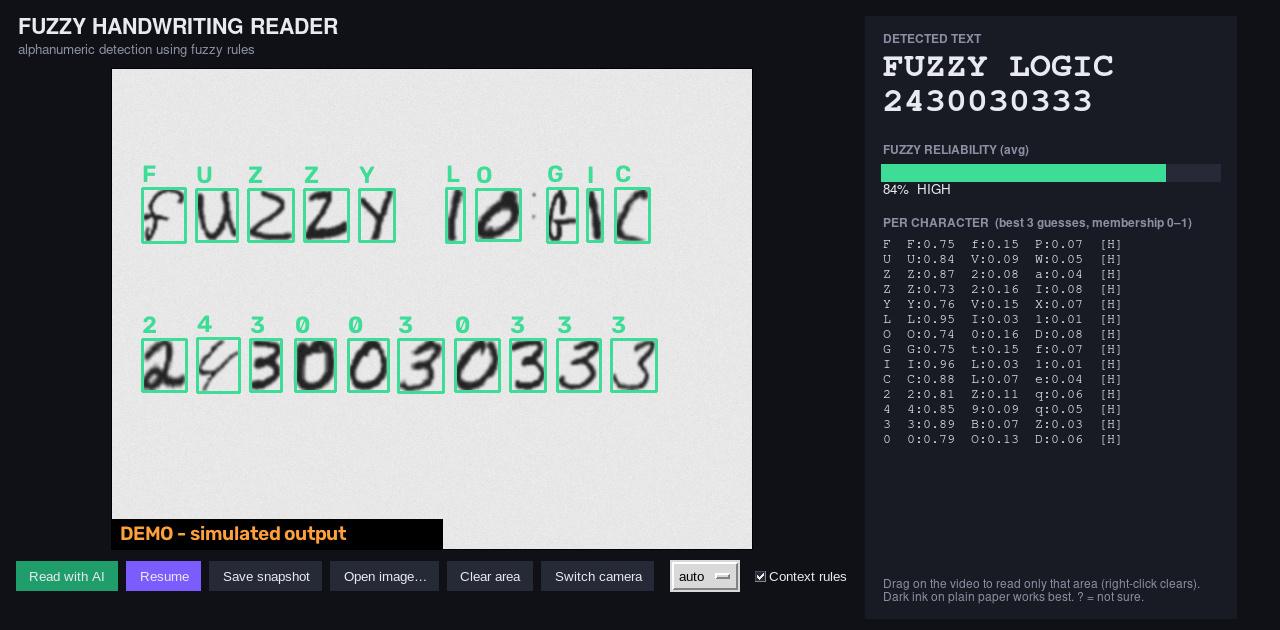
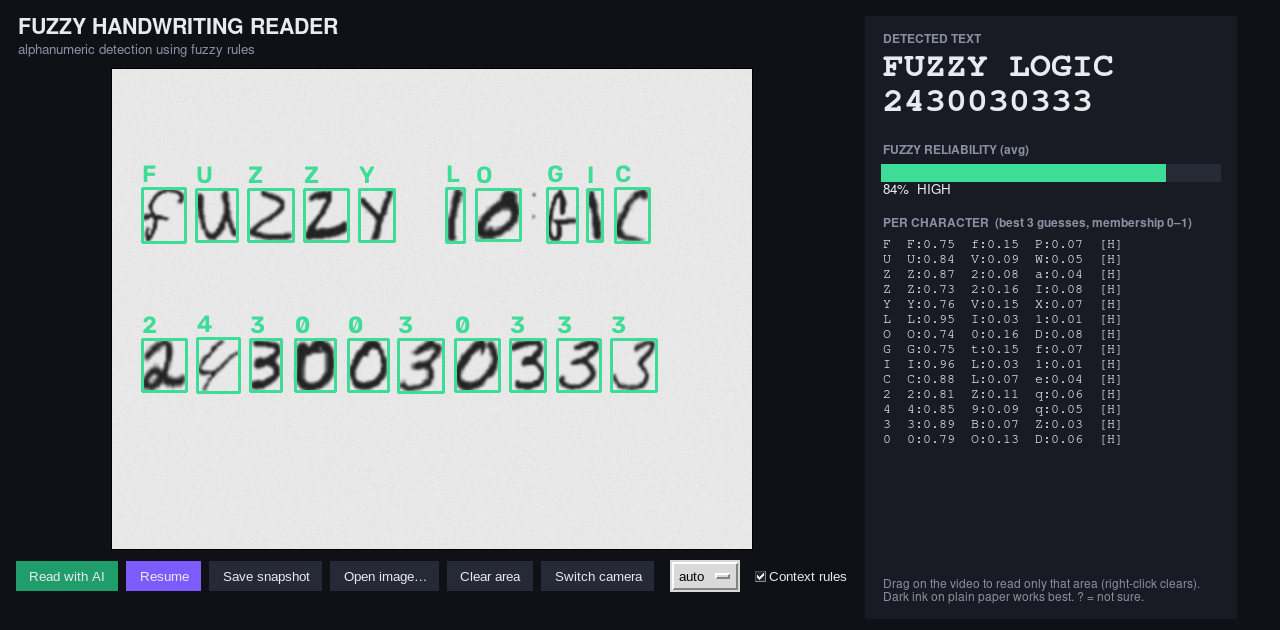
demo mode: remove on-screen badge, own window title

Changed region(s): [[0.0625, 0.8143, 0.3438, 0.8746]]

diff --git a/src/app.py b/src/app.py
@@ -24,7 +24,7 @@ def bgr(hexcol):
 class App:
     def __init__(self, root, cam_index=0, image=None, demo_mode=False):
         self.root = root
-        root.title("Fuzzy Handwriting Reader" + ("  [DEMO MODE - simulated output]" if demo_mode else ""))
+        root.title("Fuzzy Handwriting Reader" + (" - demo" if demo_mode else ""))
         root.configure(bg=BG)
         self.demo_mode = demo_mode
         self.model = CharClassifier()
@@ -170,10 +170,6 @@ class App:
             self.last_result = (demo.demo_recognise if self.demo_mode else recognise)(self.current, self.model, self.names, self.context.get(),
                                          None if self.frozen else self.tracker, self.roi, self.mode.get())
             self.shown = self.draw(self.current, self.last_result)
-            if self.demo_mode:
-                kk = max(1.0, self.shown.shape[1] / 640)
-                cv2.rectangle(self.shown, (0, self.shown.shape[0] - round(30 * kk)), (round(330 * kk), self.shown.shape[0]), (0, 0, 0), -1)
-                cv2.putText(self.shown, "DEMO - simulated output", (round(8 * kk), self.shown.shape[0] - round(9 * kk)), cv2.FONT_HERSHEY_SIMPLEX, 0.65 * kk, (60, 160, 255), round(2 * kk), cv2.LINE_AA)
             self.update_panel(self.last_result)
             h, w = self.shown.shape[:2]
             self.scale = w / VIDEO_W
